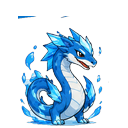
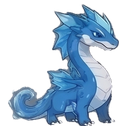
pet air

diff --git a/public/game/js/sprites-data.js b/public/game/js/sprites-data.js
@@ -202,31 +202,31 @@ const SPR = {
   "die": 5
  },
  "pet_air1": {
-  "file": "sprites/pet_air1.webp",
-  "fw": 174,
-  "fh": 174,
-  "iw": 128,
-  "ih": 128,
-  "idle": 8,
-  "cast": 6
+  "file": "sprites/pet_air1.webp?v=air1",
+  "fw": 170,
+  "fh": 126,
+  "iw": 121,
+  "ih": 102,
+  "idle": 14,
+  "cast": 20
  },
  "pet_air2": {
-  "file": "sprites/pet_air2.webp",
-  "fw": 174,
-  "fh": 174,
-  "iw": 128,
-  "ih": 128,
-  "idle": 8,
-  "cast": 6
+  "file": "sprites/pet_air2.webp?v=air1",
+  "fw": 204,
+  "fh": 130,
+  "iw": 175,
+  "ih": 106,
+  "idle": 16,
+  "cast": 19
  },
  "pet_air3": {
-  "file": "sprites/pet_air3.webp",
-  "fw": 174,
-  "fh": 174,
-  "iw": 128,
-  "ih": 128,
-  "idle": 8,
-  "cast": 6
+  "file": "sprites/pet_air3.webp?v=air1",
+  "fw": 246,
+  "fh": 147,
+  "iw": 175,
+  "ih": 123,
+  "idle": 16,
+  "cast": 15
  },
  "pet_angin1": {
   "file": "sprites/pet_angin1.webp",

diff --git a/tools/make_air_sheets.py b/tools/make_air_sheets.py
@@ -1,0 +1,290 @@
+#!/usr/bin/env python3
+"""Buat sprite sheet pet_air1 (Salamander), pet_air2 (Naga Air), pet_air3 (Naga Es) dari 6 sprite sheet JPG.
+
+Pemakaian (dari folder proyek):
+    python3 tools/make_air_sheets.py                       # semua, sumber di tools/source/air/
+    python3 tools/make_air_sheets.py --src folder_lain     # folder sumber lain (air_evol1_idle.jpg, dst.)
+    python3 tools/make_air_sheets.py --only 3              # hanya evolusi 3
+    python3 tools/make_air_sheets.py --preview /tmp/prev   # simpan GIF pratinjau
+
+Sumber: air_evol{1,2,3}_{idle,attack}.jpg di tools/source/air/.
+Hasil:
+    public/game/assets/sprites/pet_air1..3.webp   sprite sheet (idle dulu, lalu serang)
+    public/game/assets/pets/air1..3.png           gambar statis 128x128 (kartu, evolusi, menu Pet)
+    public/game/js/sprites-data.js                entri pet_air1..3 diperbarui
+
+Langkah: (1) hapus latar (abu-krem / abu-abu / putih / kotak-kotak palsu) dan bayangan tanah jadi transparan,
+(2) pisahkan tiap frame (frame yang saling menempel dipisah otomatis) dan urutkan baris demi baris,
+(3) samakan ukuran idle dan serang, kaki tiap frame berpijak di garis dasar yang sama (lihat petOrigin di game.js).
+Gerakan idle dibuat bolak-balik (ping-pong) dari sebagian frame, sama seperti Srigala Api / Serigala Lava.
+Butuh numpy, scipy, scikit-image, opencv-python, pillow.
+"""
+import argparse, math, os, re, sys
+import cv2
+import numpy as np
+from PIL import Image
+from scipy import ndimage as ndi
+from skimage.segmentation import watershed
+
+ROOT = os.path.dirname(os.path.dirname(os.path.abspath(__file__)))
+SRC_DIR = os.path.join(ROOT, 'tools/source/air')
+SPR_DIR = os.path.join(ROOT, 'public/game/assets/sprites')
+PET_DIR = os.path.join(ROOT, 'public/game/assets/pets')
+DATA_JS = os.path.join(ROOT, 'public/game/js/sprites-data.js')
+COLS = 6
+VERSION = 'air1'      # ?v=... di nama berkas supaya browser memuat sheet baru, bukan cache lama
+
+# stand = tinggi karakter saat berdiri/idle (px sheet; di game diskala .5); iw_cap = lebar maksimum karakter, termasuk
+# frame serang yang meregang (skala diperkecil bila terlewati); idle_step = ambil tiap frame ke-n dari sheet idle lalu
+# bolak-balik; still = nomor frame idle untuk gambar statis
+CFG = {
+    1: dict(pet='pet_air1', png='air1.png', stand=92,  iw_cap=175, idle_step=2, still=0),
+    2: dict(pet='pet_air2', png='air2.png', stand=110, iw_cap=175, idle_step=3, still=0),
+    3: dict(pet='pet_air3', png='air3.png', stand=116, iw_cap=175, idle_step=2, still=0),
+}
+
+# warna latar tiap sheet (diukur dari tepi gambar) dan toleransinya
+PAL = {
+    'air_evol1_idle': ([(186, 177, 168)], 26), 'air_evol1_attack': ([(186, 177, 168)], 26),
+    'air_evol2_idle': ([(125, 125, 125)], 20), 'air_evol2_attack': ([(139, 139, 139)], 20),
+    'air_evol3_idle': ([(255, 255, 255)], 14), 'air_evol3_attack': ([(195, 195, 195), (240, 240, 240)], 20),
+}
+
+
+# ---------------------------------------------------------------- hapus latar + bayangan
+def lum(a):
+    return 0.299 * a[..., 0] + 0.587 * a[..., 1] + 0.114 * a[..., 2]
+
+
+def bg_like(a, name):
+    a = a.astype(np.int32)
+    pal, tol = PAL[name]
+    d = np.full(a.shape[:2], 9999.0)
+    for p in pal:
+        d = np.minimum(d, np.sqrt(((a - np.array(p)) ** 2).sum(-1)))
+    near = d < tol
+    chroma, L = a.max(-1) - a.min(-1), lum(a)
+    if name.endswith('evol3_idle'):          # latar putih: hanya bayangan abu di tanah, jangan perut krem
+        shadow = (chroma <= 10) & (L >= 110) & (L <= 205)
+    elif name.endswith('evol3_attack'):      # kotak-kotak palsu (JPG) + bayangan tanah
+        shadow = (chroma <= 12) & (L >= 110) & (L <= 250)
+    else:                                    # latar abu: bayangan = abu lebih gelap dari latar
+        shadow = (chroma <= 22) & (L <= max(lum(np.array(p, dtype=float)) for p in pal) + 4) & (L >= 55)
+    return near | shadow
+
+
+def segment(path, name):
+    a = np.array(Image.open(path).convert('RGB'))
+    bgl = bg_like(a, name).astype(np.uint8)
+    n, lab, stats, _ = cv2.connectedComponentsWithStats(bgl, connectivity=4)
+    h, w = bgl.shape
+    # evol1/2: celah latar di dalam lingkar ekor ikut dibuang; evol3: tidak ada lingkar ekor, jadi perut/dagu aman
+    thr = 10 ** 9 if 'evol3' in name else 120
+    bg = np.zeros((h, w), np.uint8)
+    for i in range(1, n):
+        x, y, ww, hh, area = stats[i]
+        if x == 0 or y == 0 or x + ww >= w or y + hh >= h or area > thr:
+            bg[lab == i] = 1
+    fg = (1 - bg).astype(np.uint8)
+    fg = cv2.morphologyEx(fg, cv2.MORPH_OPEN, cv2.getStructuringElement(cv2.MORPH_ELLIPSE, (3, 3)))
+    n, lab, stats, _ = cv2.connectedComponentsWithStats(fg, connectivity=8)
+    out = np.zeros_like(fg)
+    for i in range(1, n):
+        if stats[i, cv2.CC_STAT_AREA] >= 60:
+            out[lab == i] = 1
+    return a, out
+
+
+# ---------------------------------------------------------------- pisahkan frame
+def split_blob(blob, k):
+    """Pecah gumpalan dua frame yang menempel: erosi sampai muncul k inti yang berarti, lalu watershed."""
+    b = blob.astype(np.uint8)
+    er, comps, lab, st = b.copy(), [], None, None
+    k3 = cv2.getStructuringElement(cv2.MORPH_ELLIPSE, (5, 5))
+    for _ in range(300):
+        er = cv2.erode(er, k3)
+        if er.sum() == 0:
+            break
+        n, lab, st, _ = cv2.connectedComponentsWithStats(er, connectivity=8)
+        comps = [i for i in range(1, n) if st[i, cv2.CC_STAT_AREA] >= 0.2 * er.sum() / k]
+        if len(comps) >= k:
+            break
+    comps = sorted(comps, key=lambda i: -st[i, cv2.CC_STAT_AREA])[:k]
+    markers = np.zeros(b.shape, np.int32)
+    for j, i in enumerate(comps):
+        markers[lab == i] = j + 1
+    ws = watershed(-ndi.distance_transform_edt(b), markers, mask=b.astype(bool))
+    return [ws == j + 1 for j in range(len(comps))]
+
+
+def extract_frames(path, name):
+    a, m = segment(path, name)
+    n, lab, stats, _ = cv2.connectedComponentsWithStats(m, connectivity=8)
+    areas = stats[1:, cv2.CC_STAT_AREA]
+    big_thr = 0.3 * np.median(np.sort(areas)[::-1][:10])
+    bigs = [i for i in range(1, n) if stats[i, cv2.CC_STAT_AREA] >= big_thr]
+    med = np.median([stats[i, cv2.CC_STAT_AREA] for i in bigs])
+    masks = []
+    for i in bigs:
+        k = int(round(stats[i, cv2.CC_STAT_AREA] / (1.15 * med)))
+        masks += split_blob(lab == i, k) if k >= 2 else [lab == i]
+    # serpihan kecil (kristal ekor, percikan air) menempel ke frame terdekat
+    dts = [cv2.distanceTransform((~mm).astype(np.uint8), cv2.DIST_L2, 3) for mm in masks]
+    for i in range(1, n):
+        if i in bigs:
+            continue
+        sm = lab == i
+        ds = [dt[sm].min() for dt in dts]
+        j = int(np.argmin(ds))
+        if ds[j] <= 160:
+            masks[j] = masks[j] | sm
+    return a, masks
+
+
+def order_frames(masks):
+    info = []
+    for mm in masks:
+        ys, xs = np.nonzero(mm)
+        info.append((ys.max(), (xs.min() + xs.max()) / 2))
+    gap = 0.35 * np.median([np.ptp(np.nonzero(mm)[0]) for mm in masks])
+    idx = sorted(range(len(masks)), key=lambda i: info[i][0])
+    rows = [[idx[0]]]
+    for i in idx[1:]:
+        if info[i][0] - info[rows[-1][-1]][0] > gap:
+            rows.append([i])
+        else:
+            rows[-1].append(i)
+    return [i for r in rows for i in sorted(r, key=lambda i: info[i][1])]
+
+
+def frame_rgba(a, mm):
+    """Potong satu frame (RGBA, tepi halus) dan cari titik kaki (tengah-x telapak, dasar = baris terbawah)."""
+    m = cv2.erode(mm.astype(np.uint8), cv2.getStructuringElement(cv2.MORPH_ELLIPSE, (3, 3)))
+    alpha = cv2.GaussianBlur(m.astype(np.float32), (0, 0), 0.8)
+    ys, xs = np.nonzero(m)
+    y0, y1, x0, x1 = ys.min(), ys.max() + 1, xs.min(), xs.max() + 1
+    al = (np.clip(alpha[y0:y1, x0:x1], 0, 1) * 255).astype(np.uint8)
+    mc = m[y0:y1, x0:x1]
+    band = mc[int((y1 - y0) * 0.92):, :]
+    bx = np.nonzero(band)[1]
+    ax = float(np.median(bx)) if len(bx) else (x1 - x0) / 2
+    return np.dstack([a[y0:y1, x0:x1], al]), ax
+
+
+def load_sheet(src, evo, kind):
+    name = f'air_evol{evo}_{kind}'
+    a, masks = extract_frames(os.path.join(src, name + '.jpg'), name)
+    return [frame_rgba(a, masks[i]) for i in order_frames(masks)]
+
+
+# ---------------------------------------------------------------- susun sprite sheet
+def pingpong(seq):
+    return seq + seq[-2:0:-1]
+
+
+def sqrt_area(frames):
+    return math.sqrt(np.median([(f[0][..., 3] > 128).sum() for f in frames]))
+
+
+def scaled(rgba, ax, s):
+    """Skala frame (alpha ter-premultiply, tanpa halo)."""
+    h, w = rgba.shape[:2]
+    nw, nh = max(1, round(w * s)), max(1, round(h * s))
+    f = rgba.astype(np.float32) / 255.
+    f[..., :3] *= f[..., 3:4]
+    r = np.clip(cv2.resize(f, (nw, nh), interpolation=cv2.INTER_AREA if s < 1 else cv2.INTER_LANCZOS4), 0, 1)
+    al = r[..., 3:4]
+    rgb = np.where(al > 1e-4, r[..., :3] / np.maximum(al, 1e-4), 0)
+    return (np.dstack([np.clip(rgb, 0, 1), al]) * 255 + .5).astype(np.uint8), ax * s
+
+
+def place(small, ax, fw, fh, ih):
+    """Letakkan frame di kanvas fw x fh: kaki di tengah-x, telapak berpijak di baris (fh+ih)//2 (sama dengan petOrigin)."""
+    base = (fh + ih) // 2
+    h, w = small.shape[:2]
+    canvas = np.zeros((fh, fw, 4), np.uint8)
+    ox, oy = round(fw / 2 - ax), base - h
+    x0, y0, x1, y1 = max(ox, 0), max(oy, 0), min(ox + w, fw), min(oy + h, fh)
+    canvas[y0:y1, x0:x1] = small[y0 - oy:y1 - oy, x0 - ox:x1 - ox]
+    return canvas
+
+
+def build(evo, src, preview=None):
+    c = CFG[evo]
+    idle_raw, atk_raw = load_sheet(src, evo, 'idle'), load_sheet(src, evo, 'attack')
+    rel = {'idle': 1.0, 'attack': sqrt_area(idle_raw) / sqrt_area(atk_raw)}   # serang disamakan ukurannya dengan idle
+    allf = [(r, ax * rel[k], r.shape[0] * rel[k], r.shape[1] * rel[k]) for k, fr in (('idle', idle_raw), ('attack', atk_raw)) for r, ax in fr]
+    H = max(h for _, _, h, _ in allf)
+    H_idle = float(np.median([r.shape[0] for r, _ in idle_raw]))
+    left, right = max(ax for _, ax, _, _ in allf), max(w - ax for _, ax, _, w in allf)
+    S = min(c['stand'] / H_idle, c['iw_cap'] / (left + right))
+    ih, iw = math.ceil(S * H), math.ceil(S * (left + right))
+    fh = ih + 24
+    fw = 2 * math.ceil(S * max(left, right)) + 24
+    fw += fw % 2
+
+    idle_idx = pingpong(list(range(0, len(idle_raw), c['idle_step'])))
+    cells = []
+    for i in idle_idx:
+        r, ax = idle_raw[i]
+        cells.append(place(*scaled(r, ax, S * rel['idle']), fw, fh, ih))
+    for r, ax in atk_raw:
+        cells.append(place(*scaled(r, ax, S * rel['attack']), fw, fh, ih))
+    n_idle, n_cast = len(idle_idx), len(atk_raw)
+
+    rows = (len(cells) + COLS - 1) // COLS
+    sheet = np.zeros((rows * fh, COLS * fw, 4), np.uint8)
+    for n, cell in enumerate(cells):
+        r, col = divmod(n, COLS)
+        sheet[r * fh:(r + 1) * fh, col * fw:(col + 1) * fw] = cell
+    out = os.path.join(SPR_DIR, c['pet'] + '.webp')
+    Image.fromarray(sheet, 'RGBA').save(out, 'WEBP', quality=92, method=6, alpha_quality=100)
+
+    # gambar statis 128x128: rapatkan ke tepi karakter, muat dalam 124x122, rata bawah
+    r, ax = idle_raw[c['still']]
+    st = Image.fromarray(scaled(r, ax, 1.0)[0], 'RGBA')
+    st = st.crop(st.getchannel('A').point(lambda v: 255 if v > 40 else 0).getbbox())
+    k = min(124 / st.width, 122 / st.height)
+    st = st.resize((max(1, round(st.width * k)), max(1, round(st.height * k))), Image.LANCZOS)
+    png = Image.new('RGBA', (128, 128), (0, 0, 0, 0))
+    png.alpha_composite(st, ((128 - st.width) // 2, 126 - st.height))
+    png.save(os.path.join(PET_DIR, c['png']))
+    print(f"{c['pet']}: {n_idle} idle + {n_cast} serang, frame {fw}x{fh}, karakter {iw}x{ih}, "
+          f"sheet {sheet.shape[1]}x{sheet.shape[0]}, {os.path.getsize(out) // 1024} KB")
+
+    if preview:
+        os.makedirs(preview, exist_ok=True)
+        for tag, rng, ms in (('idle', range(0, n_idle), 70), ('serang', range(n_idle, n_idle + n_cast), 62)):
+            fr = []
+            for n in rng:
+                bg = Image.new('RGBA', (fw, fh), (58, 110, 58, 255))
+                bg.alpha_composite(Image.fromarray(cells[n], 'RGBA'))
+                fr.append(bg.convert('P', palette=Image.ADAPTIVE))
+            fr[0].save(os.path.join(preview, f"{c['pet']}_{tag}.gif"), save_all=True, append_images=fr[1:], duration=ms, loop=0)
+    return dict(pet=c['pet'], fw=fw, fh=fh, iw=iw, ih=ih, idle=n_idle, cast=n_cast)
+
+
+def update_data(entries):
+    js = open(DATA_JS, encoding='utf-8').read()
+    for e in entries:
+        block = (f' "{e["pet"]}": {{\n  "file": "sprites/{e["pet"]}.webp?v={VERSION}",\n  "fw": {e["fw"]},\n  "fh": {e["fh"]},\n'
+                 f'  "iw": {e["iw"]},\n  "ih": {e["ih"]},\n  "idle": {e["idle"]},\n  "cast": {e["cast"]}\n }}')
+        js, n = re.subn(r' "%s": \{.*?\n \}' % e['pet'], lambda m: block, js, count=1, flags=re.S)
+        if n != 1:
+            sys.exit('entri %s tidak ditemukan di sprites-data.js' % e['pet'])
+    open(DATA_JS, 'w', encoding='utf-8').write(js)
+
+
+def main():
+    ap = argparse.ArgumentParser()
+    ap.add_argument('--src', default=SRC_DIR)
+    ap.add_argument('--only', type=int, choices=(1, 2, 3))
+    ap.add_argument('--preview')
+    args = ap.parse_args()
+    os.makedirs(SPR_DIR, exist_ok=True)
+    entries = [build(evo, args.src, args.preview) for evo in (1, 2, 3) if args.only in (None, evo)]
+    update_data(entries)
+
+
+if __name__ == '__main__':
+    main()

diff --git a/tools/make_sprites.py b/tools/make_sprites.py
@@ -24,7 +24,7 @@ OUT = os.environ.get('SPRITE_OUT', os.path.join(ASSETS, 'sprites'))
 DATA_JS = os.environ.get('SPRITE_DATA', os.path.join(ROOT, 'public', 'game', 'js', 'sprites-data.js'))
 PREVIEW = os.environ.get('SPRITE_PREVIEW')            # folder opsional untuk GIF pratinjau
 PI = math.pi
-CUSTOM = {'pet_api1', 'pet_api2', 'pet_api3'}   # sprite sheet dibuat dari video/GIF (api2 & api3 lewat tools/make_wolf_sheets.py): dilewati kecuali disebut eksplisit, mis. `make_sprites.py pet_api1`
+CUSTOM = {'pet_api1', 'pet_api2', 'pet_api3', 'pet_air1', 'pet_air2', 'pet_air3'}   # sprite sheet dibuat dari video/GIF/sheet sendiri (api2 & api3 lewat tools/make_wolf_sheets.py, air1-3 lewat tools/make_air_sheets.py): dilewati kecuali disebut eksplisit, mis. `make_sprites.py pet_api1`
 
 # ------------------------------------------------------------------ MONSTER ----
 # id: (berkas, tinggi tampil terbesar (px game), efek gerak, mode pukulan, jenis mati, tanda pukulan)

diff --git a/tools/README.md b/tools/README.md
@@ -5,7 +5,7 @@ dan `public/game/js/sprites-data.js` dari PNG statis di `assets/monsters` dan `a
 Butuh `numpy`, `opencv-python`, `pillow`. Gerakan tiap karakter diatur di tabel `MON` dan `PET`
 dalam `make_sprites.py` (bagian tubuh memakai koordinat u,v 0..1). Argumen opsional: `mon5 pet_api2`.
 
-`pet_api1`, `pet_api2`, dan `pet_api3` dilewati oleh `make_sprites.py` karena sheet-nya dibuat dari animasi sendiri.
+`pet_api1`, `pet_api2`, `pet_api3`, `pet_air1`, `pet_air2`, dan `pet_air3` dilewati oleh `make_sprites.py` karena sheet-nya dibuat dari animasi sendiri.
 
 ## Srigala Api dan Serigala Lava (pet_api2, pet_api3)
 
@@ -16,3 +16,15 @@ lalu menulis `pet_api2.webp`, `pet_api3.webp`, `pets/api2.png`, `pets/api3.png`,
 Tambahkan `--preview folder` untuk menyimpan GIF pratinjau, `--only api` atau `--only lava` untuk satu karakter saja.
 Pilihan frame idle/serang, skala, dan ukuran frame ada di tabel `CFG` di atas skrip.
 Butuh `numpy`, `scipy`, `opencv-python`, `pillow`.
+
+## Salamander, Naga Air, dan Naga Es (pet_air1, pet_air2, pet_air3)
+
+`python3 tools/make_air_sheets.py`
+
+Membaca enam sprite sheet JPG di `tools/source/air/` (`air_evol1_idle.jpg`, `air_evol1_attack.jpg`, ... `air_evol3_attack.jpg`),
+menghapus latar dan bayangan tanahnya, memisahkan tiap frame, menyamakan ukuran idle dan serang, lalu menulis
+`pet_air1.webp`, `pet_air2.webp`, `pet_air3.webp`, `pets/air1.png`, `pets/air2.png`, `pets/air3.png`, dan memperbarui entri di `sprites-data.js`.
+Idle dibuat bolak-balik dari sebagian frame (`idle_step` di tabel `CFG` di atas skrip), serang memakai semua frame sheet attack.
+Tinggi karakter (`ih`) dan batas lebar (`iw_cap`) tiap evolusi juga ada di `CFG`.
+Tambahkan `--preview folder` untuk GIF pratinjau, `--only 1|2|3` untuk satu evolusi saja, `--src folder` bila sumbernya di tempat lain.
+Butuh `numpy`, `scipy`, `scikit-image`, `opencv-python`, `pillow`.
